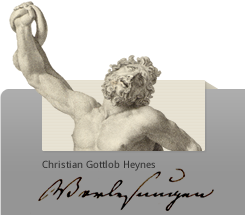
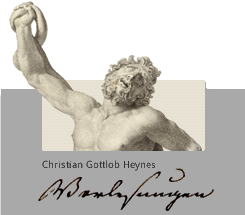
Footer styling

diff --git a/Resources/Public/Css/style.css b/Resources/Public/Css/style.css
@@ -141,6 +141,64 @@
   margin-top: 40px;
 }
 
+footer {
+  background-color: #666666;
+  background-image: url("../Images/footer-border-top.png");
+  background-repeat: repeat-x;
+  color: white;
+  height: 315px;
+  width: 100%;
+}
+footer a, footer a:hover, footer a:visited {
+  color: white;
+}
+footer a:hover {
+  text-decoration: underline;
+}
+footer .wrap {
+  width: 1000px;
+  margin: 0 auto;
+  font-size: 10pt;
+}
+footer .wrap div:first-child {
+  width: 245px;
+  background-image: url("../Images/footer-bg1.png");
+  float: left;
+  display: inline;
+}
+footer .wrap div:nth-child(2) {
+  width: 430px;
+  float: left;
+  display: inline;
+  margin: 89px 0 0 0;
+}
+footer .wrap div:nth-child(2) li {
+  padding: 0 0 8px 0;
+}
+footer .wrap div:nth-child(2) ul:first-child {
+  width: 150px;
+  float: left;
+}
+footer .wrap div:nth-child(3) {
+  width: 285px;
+  margin: 89px 0 0 0;
+  background-color: #969696;
+  padding: 0 20px 20px 20px;
+  float: left;
+  display: inline;
+}
+footer .wrap div:nth-child(3) li {
+  padding: 0 0 8px 0;
+}
+footer .logos {
+  list-style-type: none;
+  text-align: left;
+  padding: 0;
+}
+footer .logos li {
+  display: inline;
+}
+
 /* ALL */
 body {
   font-family: "Droid Sans", sans-serif;
@@ -335,66 +393,6 @@ header .header-button {
   border-bottom: 1px solid #999999;
 }
 
-footer {
-  background-color: #666666;
-  background-image: url("../Images/footer-border-top.png");
-  background-repeat: repeat-x;
-  color: white;
-  height: 315px;
-  width: 100%;
-}
-footer a, footer a:hover, footer a:visited {
-  color: white;
-}
-footer a:hover {
-  text-decoration: underline;
-}
-footer .wrap {
-  width: 1000px;
-  margin: 0 auto;
-  font-size: 10pt;
-}
-footer .wrap div:first-child {
-  width: 245px;
-  background-image: url("../Images/footer-bg1.png");
-  float: left;
-  display: inline;
-}
-footer .wrap div:nth-child(2) {
-  width: 430px;
-  float: left;
-  display: inline;
-  box-shadow: inset 0 0 1px 0 #666666;
-  margin: 89px 0 0 0;
-}
-footer .wrap div:nth-child(2) li {
-  padding: 0 0 8px 0;
-}
-footer .wrap div:nth-child(2) ul:first-child {
-  width: 150px;
-  float: left;
-}
-footer .wrap div:nth-child(3) {
-  width: 285px;
-  margin: 89px 0 0 0;
-  background-color: #969696;
-  padding: 0 20px 20px 20px;
-  border-radius: 0 8px 0 0;
-  float: left;
-  display: inline;
-}
-footer .wrap div:nth-child(3) li {
-  padding: 0 0 8px 0;
-}
-footer .logos {
-  list-style-type: none;
-  text-align: left;
-  padding: 0;
-}
-footer .logos li {
-  display: inline;
-}
-
 .button-alpha {
   background-image: url("../Images/content-button-down.png");
   background-repeat: no-repeat;
@@ -420,7 +418,6 @@ footer .logos li {
 
 .footer-col-bg-gradient {
   background: #b0b0b0;
[1 lines of base64/hex data omitted]
 }
 
 .content-img-style1 {

diff --git a/Resources/Private/Scss/style.scss b/Resources/Private/Scss/style.scss
@@ -2,6 +2,7 @@
 
 @import '_Sections/Indices';
 @import '_Sections/Scripts';
+@import '_Sections/Footer';
 /* ALL */
 
 body {
@@ -184,62 +185,6 @@ header {
 	}
 }
 
-footer {
-	background-color: $color-content-font;
-	background-image: url($path-img + 'footer-border-top.png');
-	background-repeat: repeat-x;
-	color: rgb(255, 255, 255);
-	height: 315px;
-	width: 100%;
-	a, a:hover, a:visited {
-		color: rgb(255, 255, 255);
-	}
-	a:hover {
-		text-decoration: underline;
-	}
-	.wrap {
-		width: $width-content;
-		margin: 0 auto;
-		font-size: 10pt;
-		div:first-child {
-			width: 245px;
-			background-image: url($path-img + 'footer-bg1.png');
-			float: left;
-			display: inline;
-		}
-		div:nth-child(2) {
-			width: 430px;
-			float: left;
-			display: inline;
-			box-shadow: inset 0 0 1px 0 #666666;
-			margin: 89px 0 0 0;
-			li { padding: 0 0 8px 0; }
-			ul:first-child {
-				width: 150px;
-				float: left;
-			}
-		}
-		div:nth-child(3) {
-			width: 285px;
-			margin: 89px 0 0 0;
-			background-color: rgb(150, 150, 150);
-			padding: 0 20px 20px 20px;
-			border-radius: 0 $borderradius-footer 0 0;
-			float: left;
-			display: inline;
-			li { padding: 0 0 8px 0; }
-		}
-	}
-	.logos {
-		list-style-type: none;
-		text-align: left;
-		padding: 0;
-		li {
-			display: inline;
-		}
-	}
-}
-
 .button-alpha {
 	background-image: url($path-img + 'content-button-down.png');
 	background-repeat: no-repeat;
@@ -254,7 +199,6 @@ footer {
 
 .footer-col-bg-gradient {
 	background: rgb(176,176,176);
[1 lines of base64/hex data omitted]
 }
 
 .content-img-style1 { background-color: $color-content-img-frame-style1; }

diff --git a/Resources/Private/Scss/_Sections/_Footer.scss b/Resources/Private/Scss/_Sections/_Footer.scss
@@ -1,0 +1,53 @@
+footer {
+	background-color: $color-content-font;
+	background-image: url($path-img + 'footer-border-top.png');
+	background-repeat: repeat-x;
+	color: rgb(255, 255, 255);
+	height: 315px;
+	width: 100%;
+	a, a:hover, a:visited {
+		color: rgb(255, 255, 255);
+	}
+	a:hover {
+		text-decoration: underline;
+	}
+	.wrap {
+		width: $width-content;
+		margin: 0 auto;
+		font-size: 10pt;
+		div:first-child {
+			width: 245px;
+			background-image: url($path-img + 'footer-bg1.png');
+			float: left;
+			display: inline;
+		}
+		div:nth-child(2) {
+			width: 430px;
+			float: left;
+			display: inline;
+			margin: 89px 0 0 0;
+			li { padding: 0 0 8px 0; }
+			ul:first-child {
+				width: 150px;
+				float: left;
+			}
+		}
+		div:nth-child(3) {
+			width: 285px;
+			margin: 89px 0 0 0;
+			background-color: rgb(150, 150, 150);
+			padding: 0 20px 20px 20px;
+			float: left;
+			display: inline;
+			li { padding: 0 0 8px 0; }
+		}
+	}
+	.logos {
+		list-style-type: none;
+		text-align: left;
+		padding: 0;
+		li {
+			display: inline;
+		}
+	}
+}
